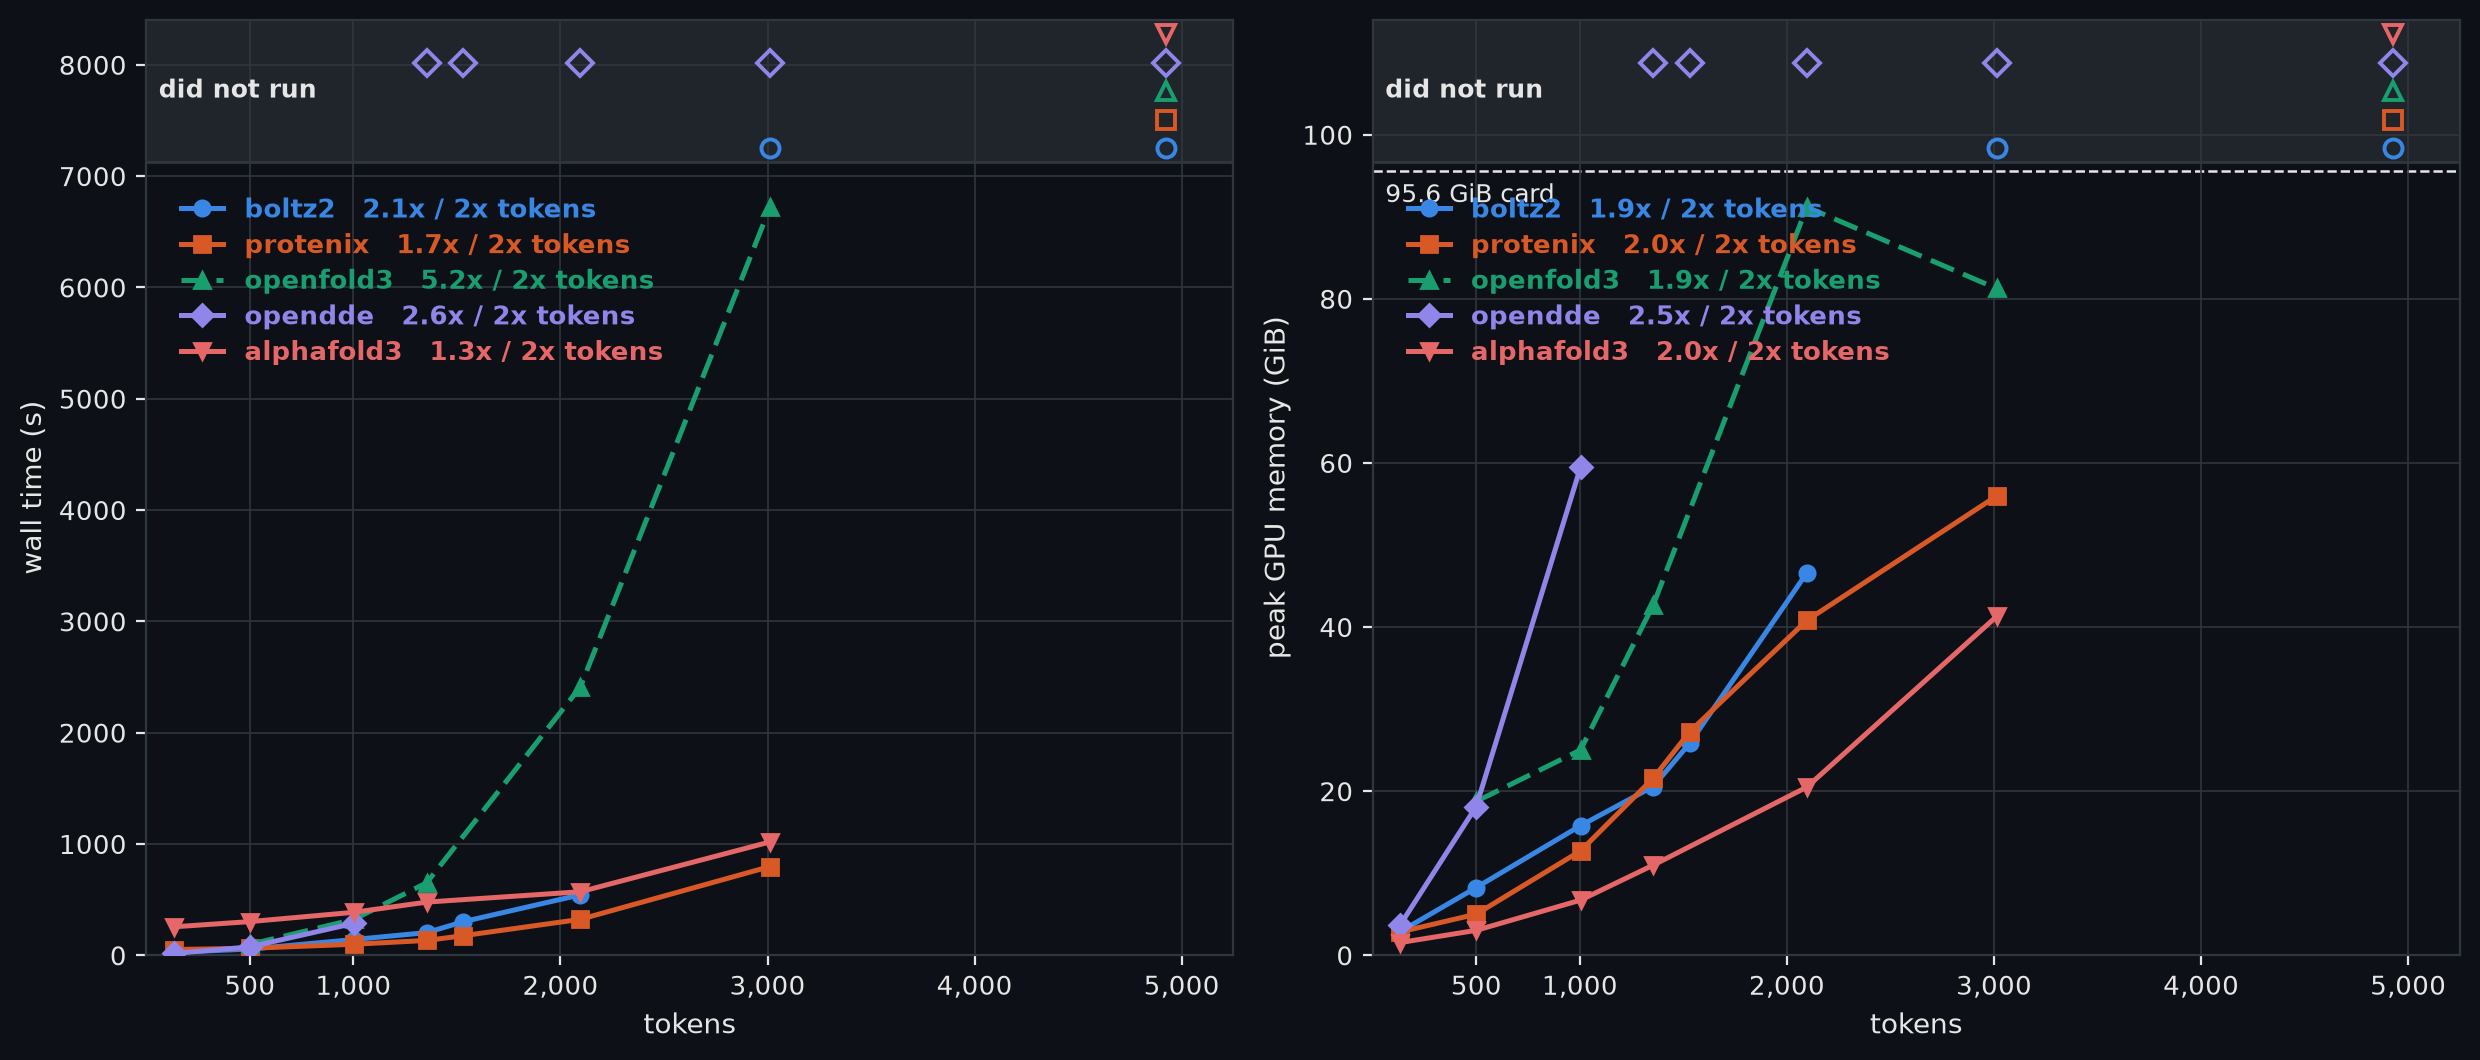
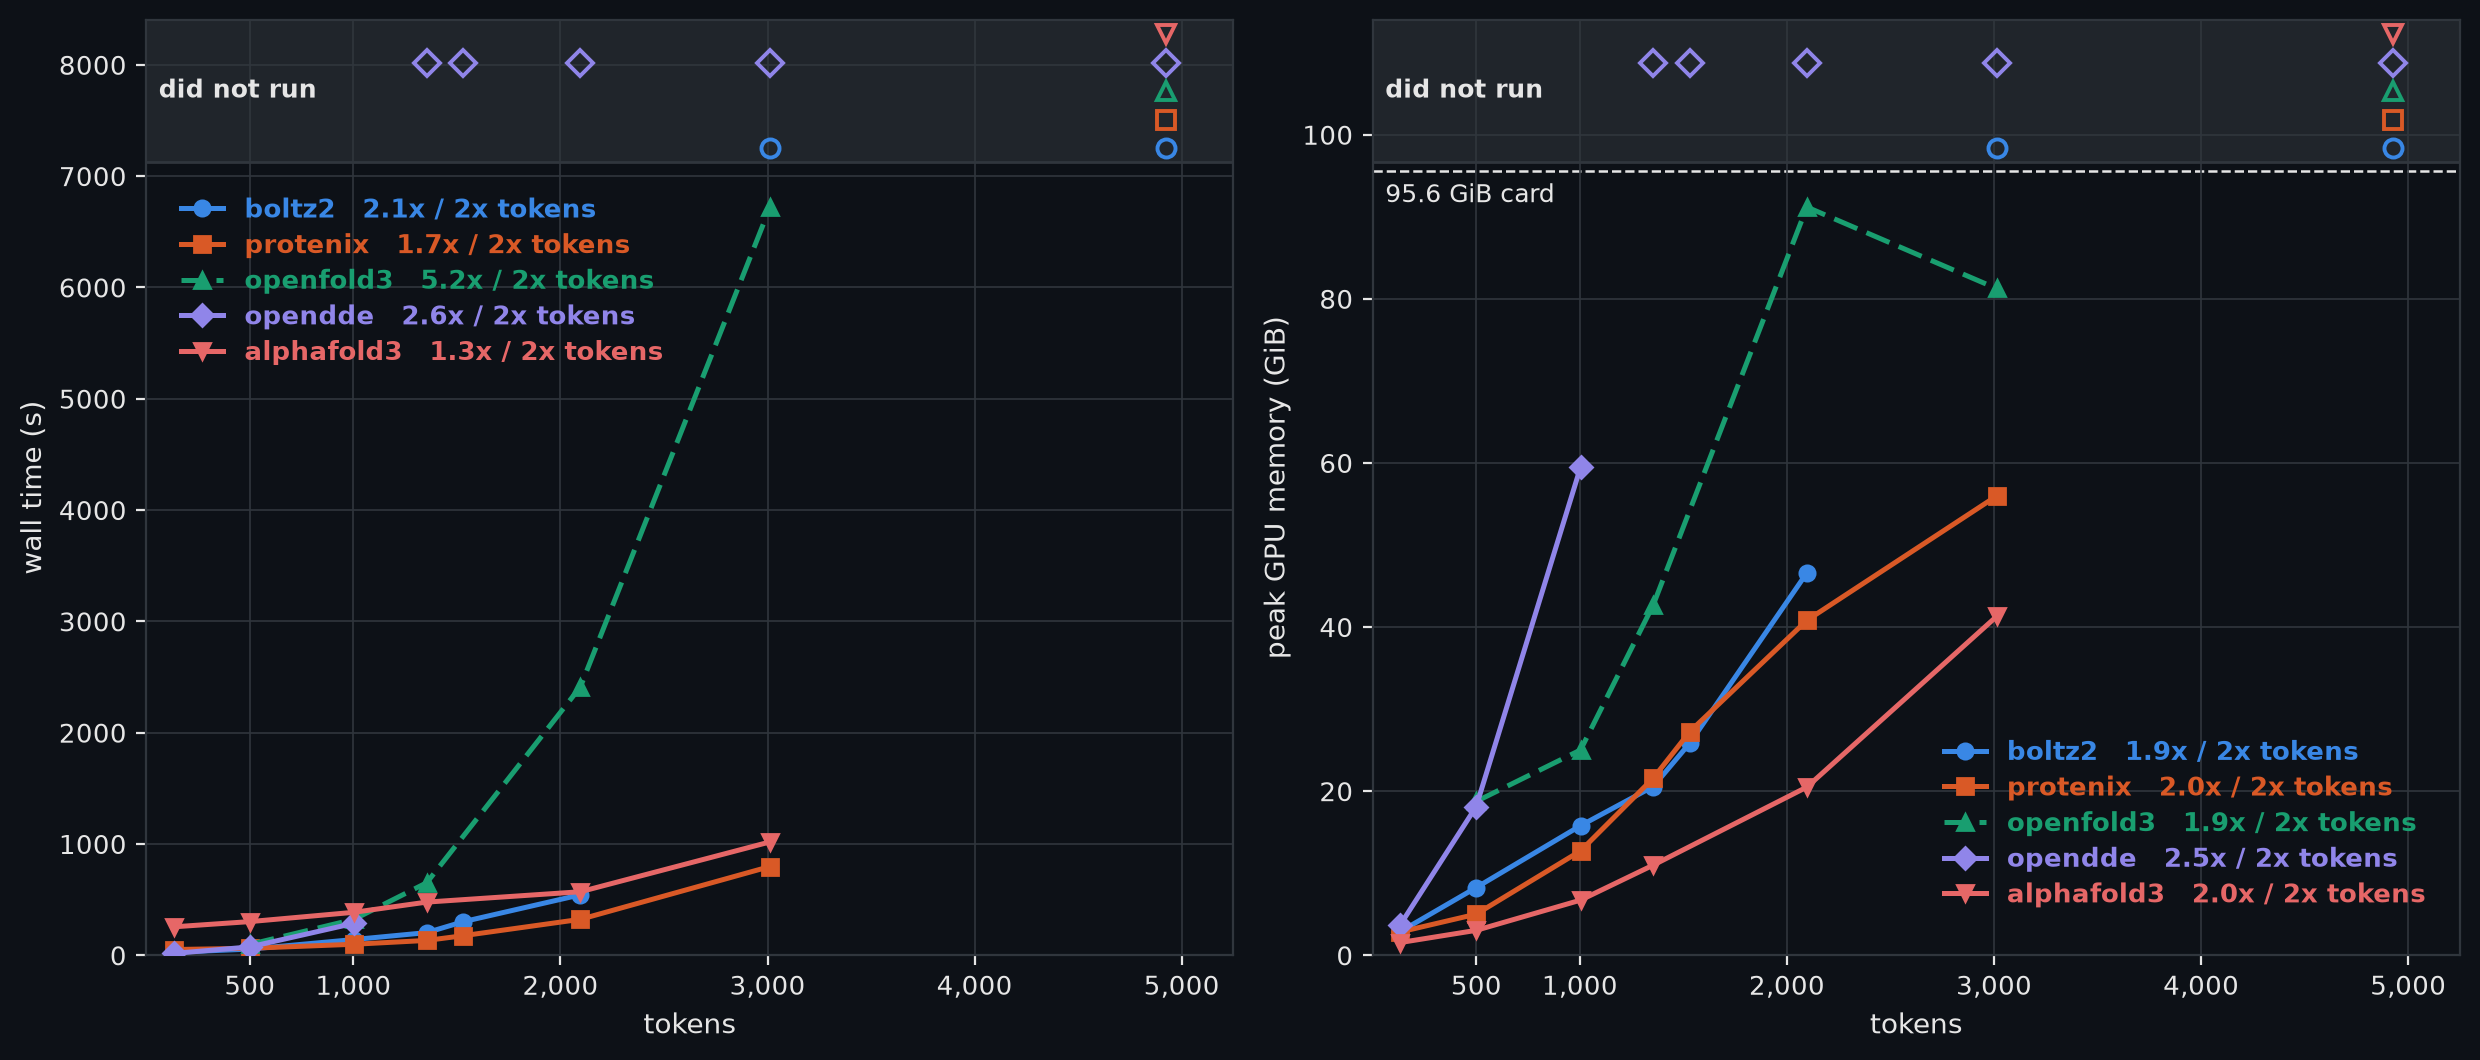
fix: move the upstream figure's memory legend off its own data
The right-hand panel of `upstream-scaling-*.png` drew its legend on top of the
curves. OpenFold3's dashed series and OpenDDE's climb through the upper left,
so the legend's first row was overprinted -- `boltz2 1.9x / 2x tokens` lost its
last character to the green line -- and the `95.6 GiB card` label landed on it
too. What that hid is the panel's own argument: OpenFold3's upstream peaking at
91.2 GiB on 2,096 tokens and bending back down to 81.3 at 3,012, memory traded
for time by its own chunk tuner.

The cause is in the comment that placed it: "on linear axes every curve leaves
that corner empty". True of the time panel, where every series starts at the
origin and the steep one only arrives past 2,000 tokens. Not true of the memory
panel. The legend is now placed per panel -- time keeps the upper left, memory
takes the lower right, which is empty because the last completed point is
Protenix at 3,012 tokens.

Checked while there, because the table and the figures are maintained
separately: every value all three committed figures plot was compared against
the Markdown table it sits beside. Fifty numeric rows each for the bar figure,
the faceted scaling figure and this one; no mismatch, nothing plotted where the
table says failed, nothing in the table missing from a figure.

Also records what the figure's AlphaFold 3 curve is actually measuring. Its
`1.3x / 2x tokens` is the flattest of the five because every point carries the
[…]

Changed region(s): [[0.7762, 0.6849, 0.9935, 0.8717], [0.5589, 0.1868, 0.7762, 0.3425]]

diff --git a/docs/make_scaling_figure.py b/docs/make_scaling_figure.py
@@ -538,20 +538,29 @@ def render_upstream(grouped: dict, out: Path, *, theme: str) -> Path:
                 va="top",
                 ha="left",
             )
-        # Upper left, tucked under the failure band: on linear axes every
-        # curve leaves that corner empty, and the lower right -- free when
-        # these were log-log -- is now where four of the five lines run.
+        # The two panels have different empty corners, and placing both legends
+        # by the time panel's is what put the memory legend on top of its own
+        # data: OpenFold3 and OpenDDE climb through the upper left there, and
+        # the `95.6 GiB card` label lands on the first legend row. On time,
+        # upper left is genuinely free -- every curve starts at the origin and
+        # the steep one only arrives past 2,000 tokens. On memory the free
+        # corner is the lower right: the last completed point is Protenix at
+        # 3,012 tokens, so nothing is drawn right of it below the failure band.
+        if metric == "peak_mib":
+            location, anchor = "lower right", (0.985, 0.03)
+        else:
+            location, anchor = "upper left", (0.015, 0.83)
         legend = axis.legend(
             handles,
             labels,
-            loc="upper left",
+            loc=location,
             frameon=False,
             fontsize=9.5,
             labelcolor="linecolor",
             handlelength=1.6,
             borderpad=0.2,
             labelspacing=0.35,
-            bbox_to_anchor=(0.015, 0.83),
+            bbox_to_anchor=anchor,
         )
         for text in legend.get_texts():
             text.set_fontweight("bold")

diff --git a/docs/benchmark.md b/docs/benchmark.md
@@ -464,6 +464,15 @@ is not a substitution: FoldJAX drives the official installation rather than
 reimplementing it, so those rows *are* upstream AlphaFold 3 running its own
 code. It is the same fact that leaves its upstream column blank in the table.
 
+**AlphaFold 3's curve here is the flattest of the five, and that is an
+artifact.** Every one of its points carries the same ~250 s of Tokamax
+autotuning, because until 2026-08-31 nothing persisted that result across
+processes and this card's device kind ships no autotuning cache with Tokamax
+0.0.13. A large fixed cost added to every point flattens a growth curve by
+construction, which is what the `1.3x / 2x tokens` label is measuring. The
+shipped default now persists a verified configuration, so a warm store does not
+pay it; the figure predates that and has not been re-measured.
+
 **OpenFold3 is drawn dashed because it is not a like-for-like run.** It is the
 one series that could not reach its own released fast path on this card --
 DS4Sci's evoformer attention refuses to build for sm_120 and 0.3.1's
